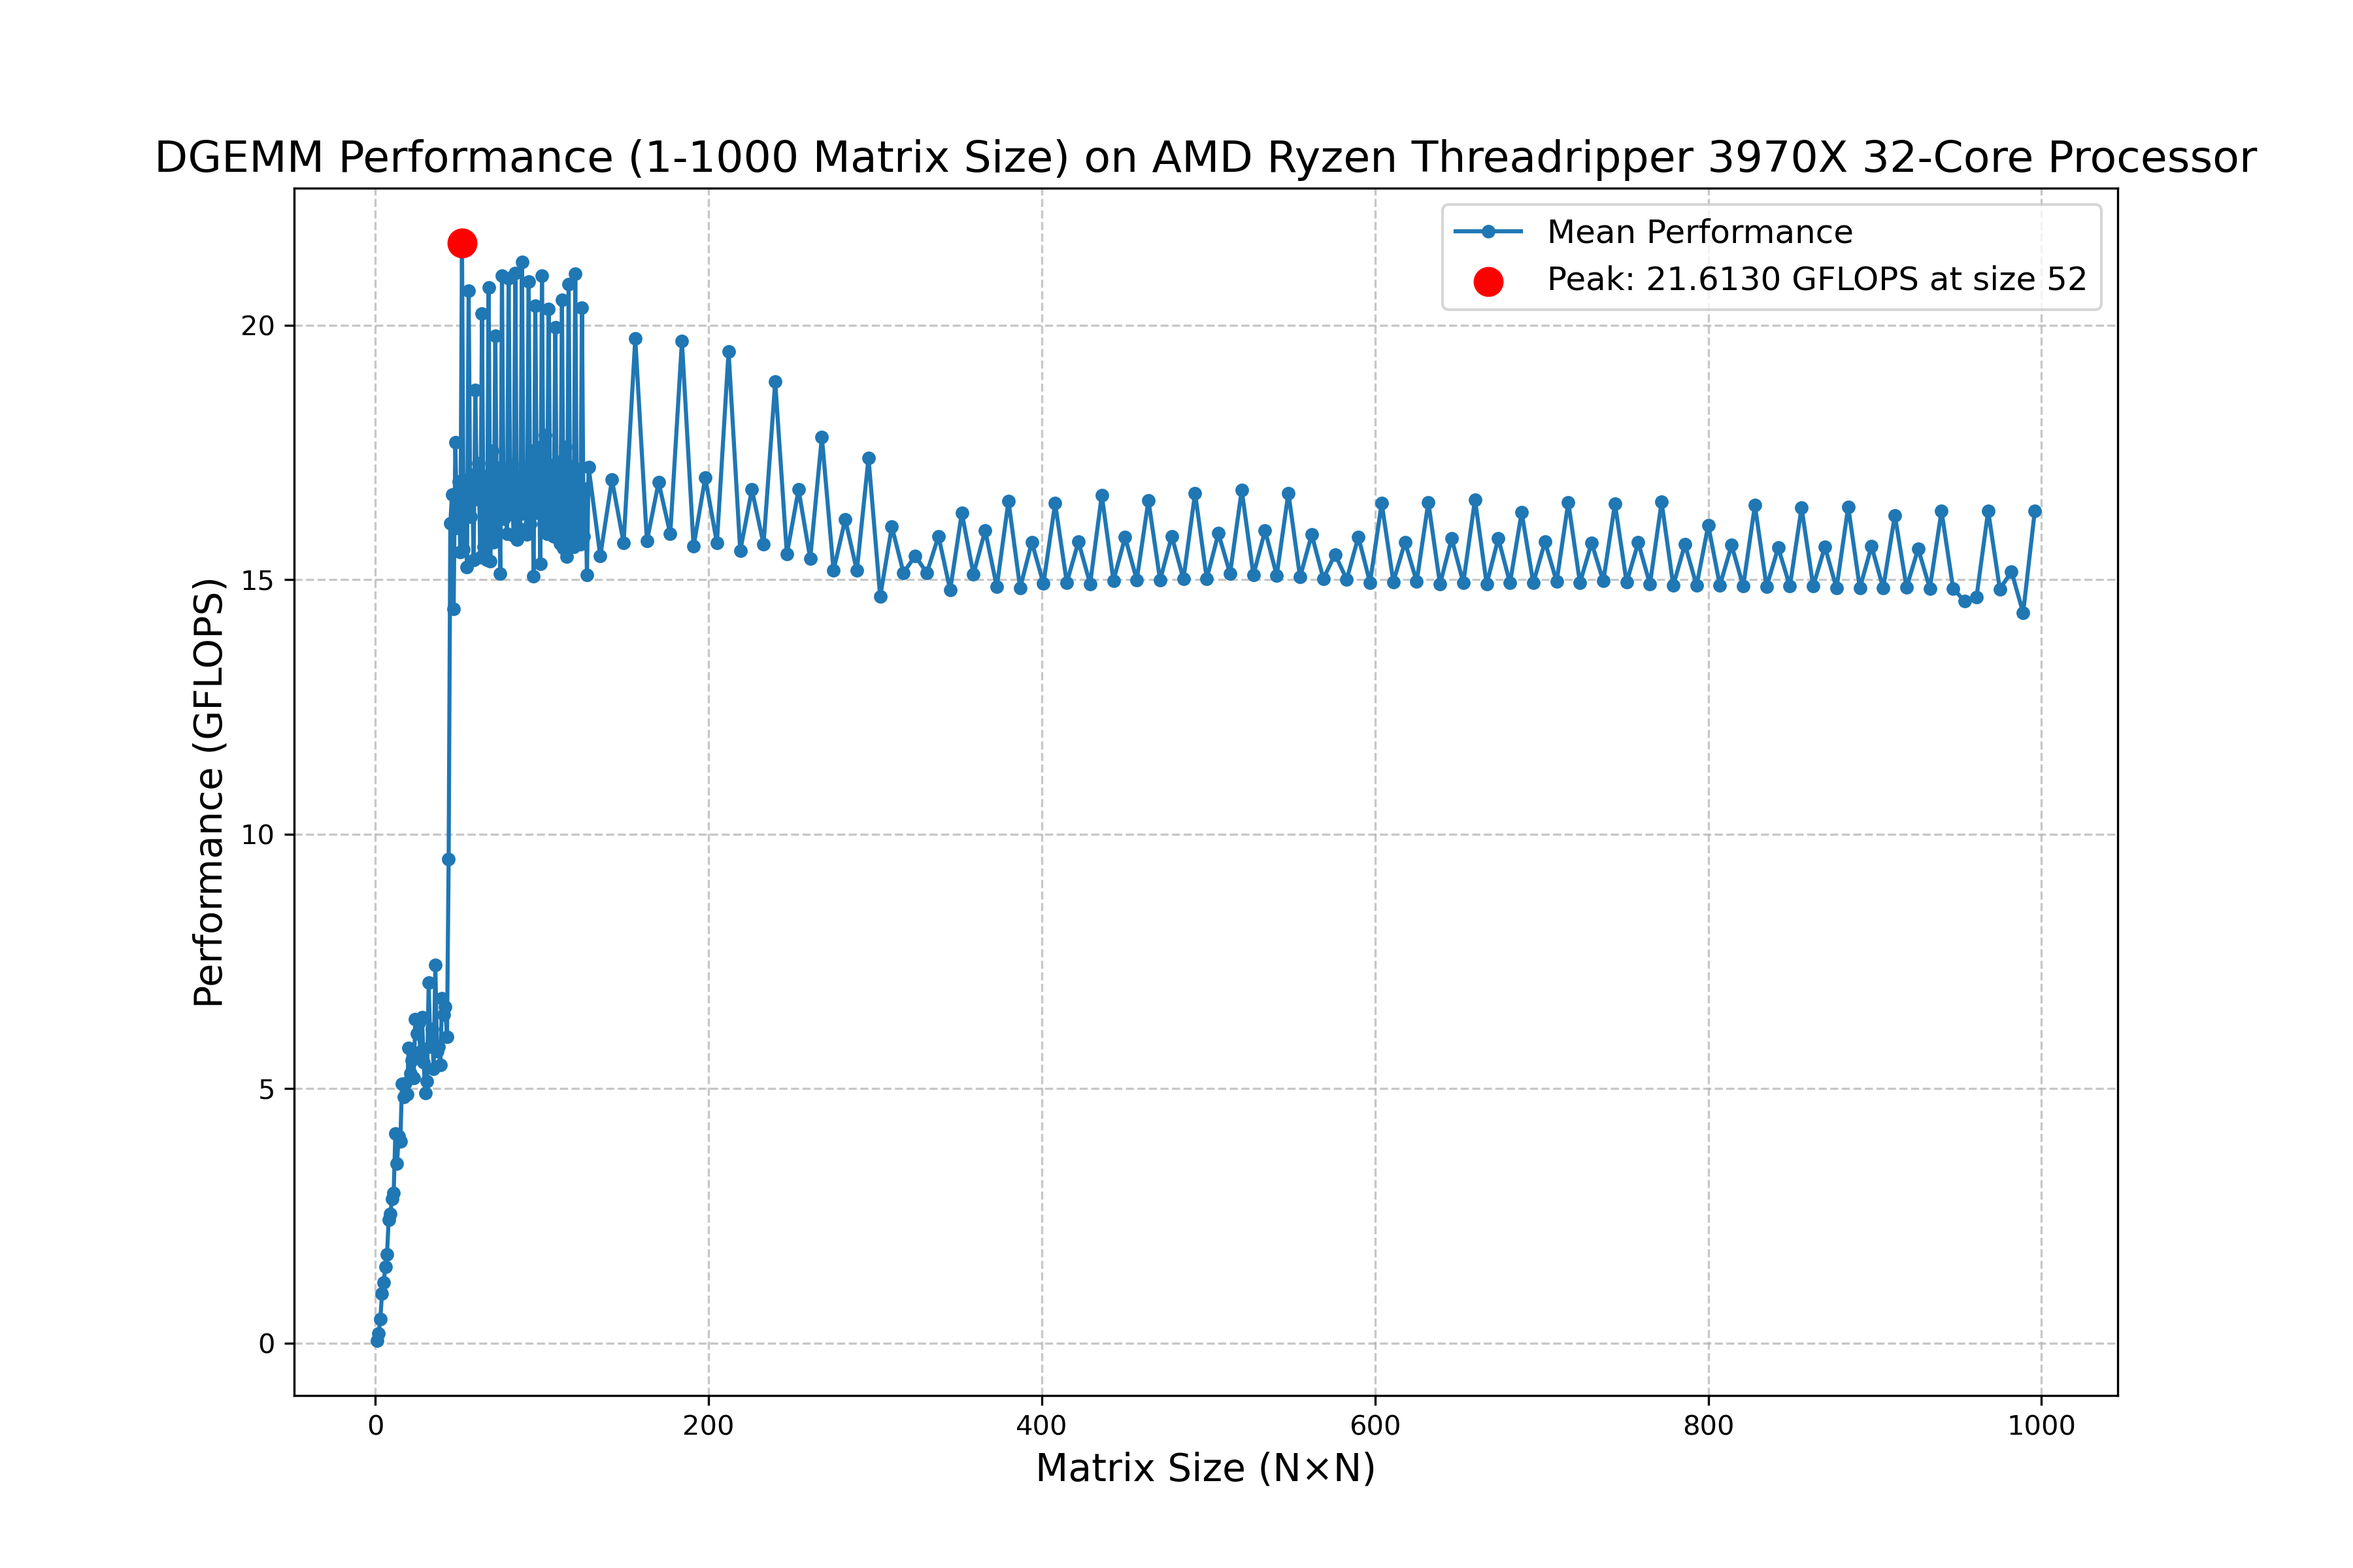
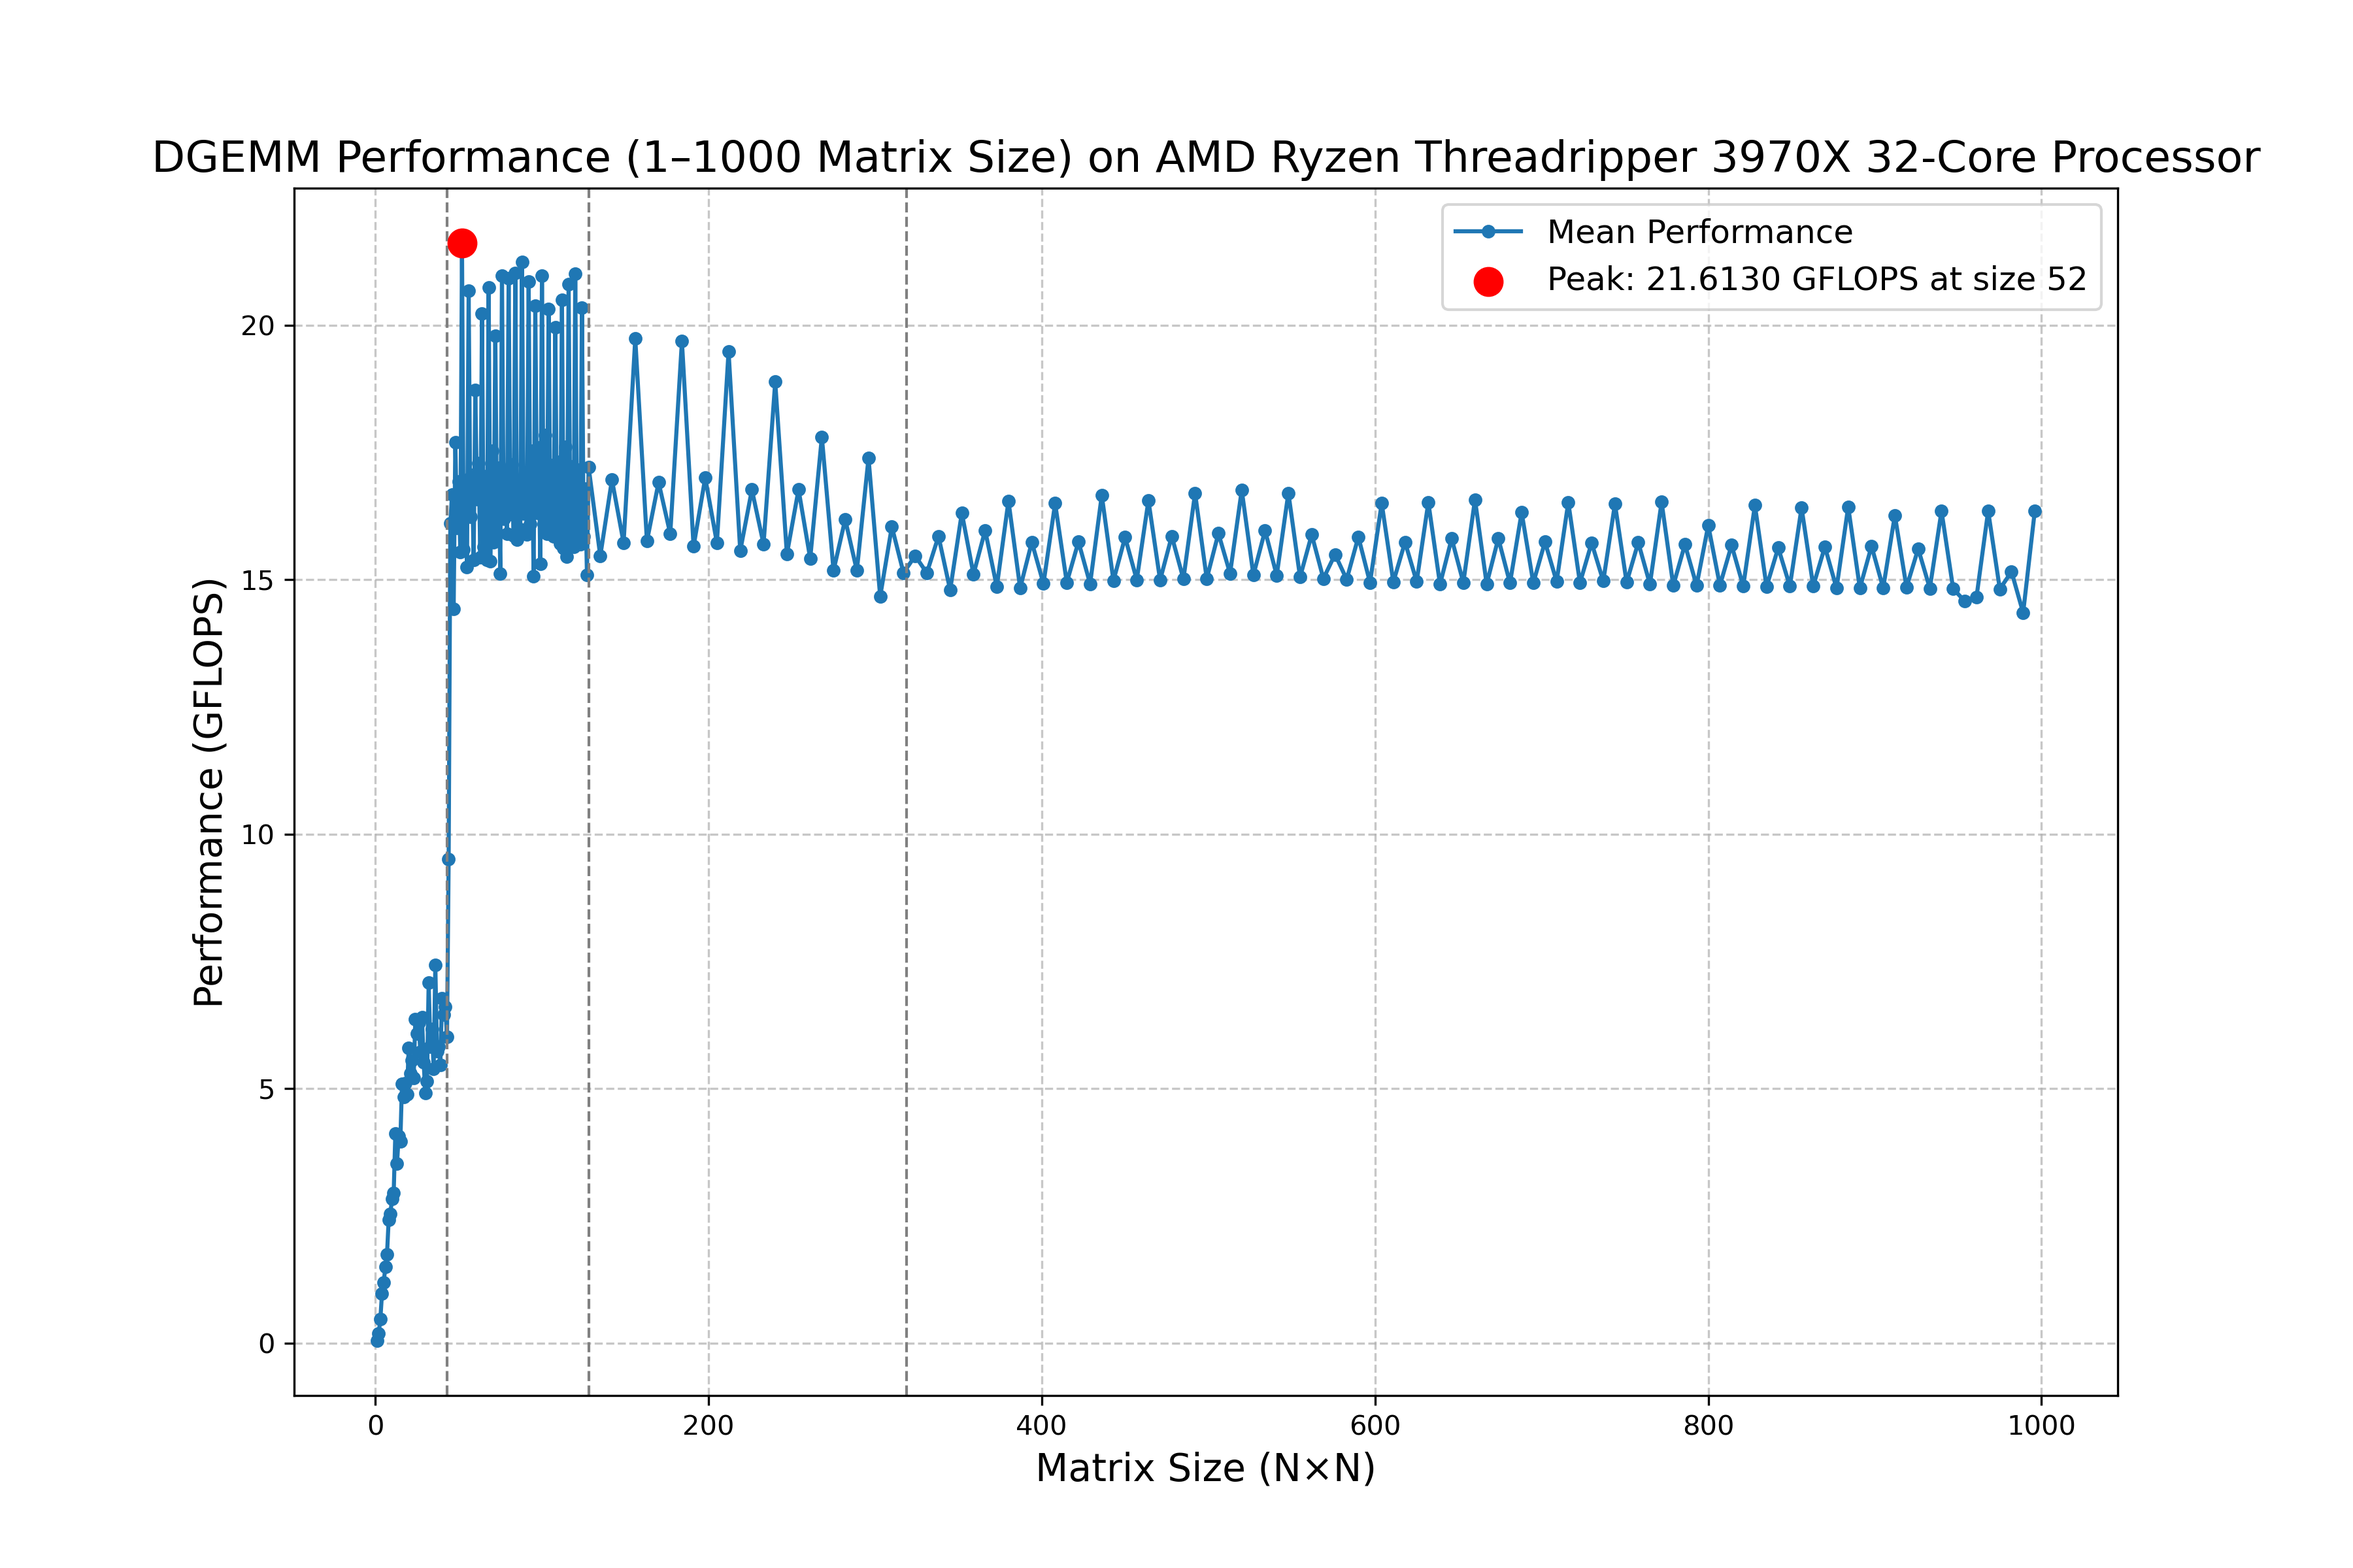
.

Changed region(s): [[0.0622, 0.0938, 0.9644, 0.125]]

diff --git a/06/plot.py b/06/plot.py
@@ -3,13 +3,12 @@ import pandas as pd
 import numpy as np
 import platform
 import subprocess
-import re
 import os
 
 def get_cpu_info():
     """CPUの情報を取得する関数"""
     cpu_info = "Unknown CPU"
-    
+
     if platform.system() == "Linux":
         try:
             with open("/proc/cpuinfo", "r") as f:
@@ -19,15 +18,17 @@ def get_cpu_info():
                         break
         except:
             pass
-            
+
     elif platform.system() == "Darwin":  # macOS
         try:
-            output = subprocess.check_output(["sysctl", "-n", "machdep.cpu.brand_string"]).decode().strip()
+            output = subprocess.check_output(
+                ["sysctl", "-n", "machdep.cpu.brand_string"]
+            ).decode().strip()
             if output:
                 cpu_info = output
         except:
             pass
-            
+
     elif platform.system() == "Windows":
         try:
             output = subprocess.check_output(["wmic", "cpu", "get", "name"]).decode()
@@ -37,64 +38,58 @@ def get_cpu_info():
                 cpu_info = platform.processor()
             except:
                 pass
-    
+
     return cpu_info
 
 def read_and_plot_csv(csv_file="dgemm_benchmark_results.csv"):
-    """CSVファイルを読み込み、1-1000までの単一グラフを描画する関数"""
-    # CSVファイルが存在するか確認
+    """CSVファイルを読み込み、1–1000までの単一グラフを描画する関数"""
     if not os.path.exists(csv_file):
         print(f"Error: {csv_file} not found.")
         return
-    
-    # CSVファイルを読み込み
+
+    # データ読み込み・平均値計算
     df = pd.read_csv(csv_file)
-    
-    # 各試行の平均GFLOPSを計算
-    gflops_cols = [col for col in df.columns if 'GFLOPS' in col]
-    df['mean_gflops'] = df[gflops_cols].mean(axis=1)
-    df['std_gflops'] = df[gflops_cols].std(axis=1)
-    
-    # CPU情報を取得
+    gflops_cols = [c for c in df.columns if "GFLOPS" in c]
+    df["mean_gflops"] = df[gflops_cols].mean(axis=1)
+    df["std_gflops"] = df[gflops_cols].std(axis=1)
+
+    # CPU情報
     cpu_info = get_cpu_info()
-    
-    # 結果をコンソールに出力
+
+    # コンソール出力
     print(f"CPU: {cpu_info}")
     print(f"Matrix size range: {df['m'].min()} to {df['m'].max()}")
     print(f"Average performance: {df['mean_gflops'].mean():.4f} GFLOPS")
     print(f"Peak performance: {df['mean_gflops'].max():.4f} GFLOPS (at size {df.loc[df['mean_gflops'].idxmax(), 'm']})")
-    
-    # 単一グラフの作成
+
+    # グラフ描画
     plt.figure(figsize=(12, 8))
-    
-    # 行列サイズとGFLOPSの関係をプロット
-    plt.plot(df['m'], df['mean_gflops'], 'o-', markersize=4, linewidth=1.5, label='Mean Performance')
-    
-    # グリッド線を追加
-    plt.grid(True, linestyle='--', alpha=0.7)
-    
-    # タイトルと軸ラベル
-    plt.title(f'DGEMM Performance (1-1000 Matrix Size) on {cpu_info}', fontsize=16)
-    plt.xlabel('Matrix Size (N×N)', fontsize=14)
-    plt.ylabel('Performance (GFLOPS)', fontsize=14)
-    
-    # ピーク性能をハイライト
-    peak_idx = df['mean_gflops'].idxmax()
-    peak_size = df.loc[peak_idx, 'm']
-    peak_gflops = df.loc[peak_idx, 'mean_gflops']
-    
-    plt.scatter([peak_size], [peak_gflops], color='red', s=100, zorder=5, 
-                label=f'Peak: {peak_gflops:.4f} GFLOPS at size {peak_size}')
-    
-    # 凡例を追加
-    plt.legend(loc='best', fontsize=12)
-    
-    # グラフを保存
+    plt.plot(df["m"], df["mean_gflops"], "o-", markersize=4, linewidth=1.5, label="Mean Performance")
+
+    # キャッシュ境界（L1/L2, L2/L3, L3/Memory）を示す縦線
+    for boundary in [43, 128, 319]:
+        plt.axvline(x=boundary, color="gray", linestyle="--", linewidth=1)
+
+    plt.grid(True, linestyle="--", alpha=0.7)
+    plt.title(f"DGEMM Performance (1–1000 Matrix Size) on {cpu_info}", fontsize=16)
+    plt.xlabel("Matrix Size (N×N)", fontsize=14)
+    plt.ylabel("Performance (GFLOPS)", fontsize=14)
+
+    # ピーク性能のハイライト
+    peak_idx = df["mean_gflops"].idxmax()
+    peak_size = df.loc[peak_idx, "m"]
+    peak_gflops = df.loc[peak_idx, "mean_gflops"]
+    plt.scatter([peak_size], [peak_gflops], color="red", s=100, zorder=5,
+                label=f"Peak: {peak_gflops:.4f} GFLOPS at size {peak_size}")
+
+    plt.legend(loc="best", fontsize=12)
+
     output_file = "dgemm_benchmark_simple_plot.png"
     plt.savefig(output_file, dpi=300)
     print(f"Performance visualization saved to {output_file}")
-    
+
     return df
 
 if __name__ == "__main__":
     read_and_plot_csv()
+
